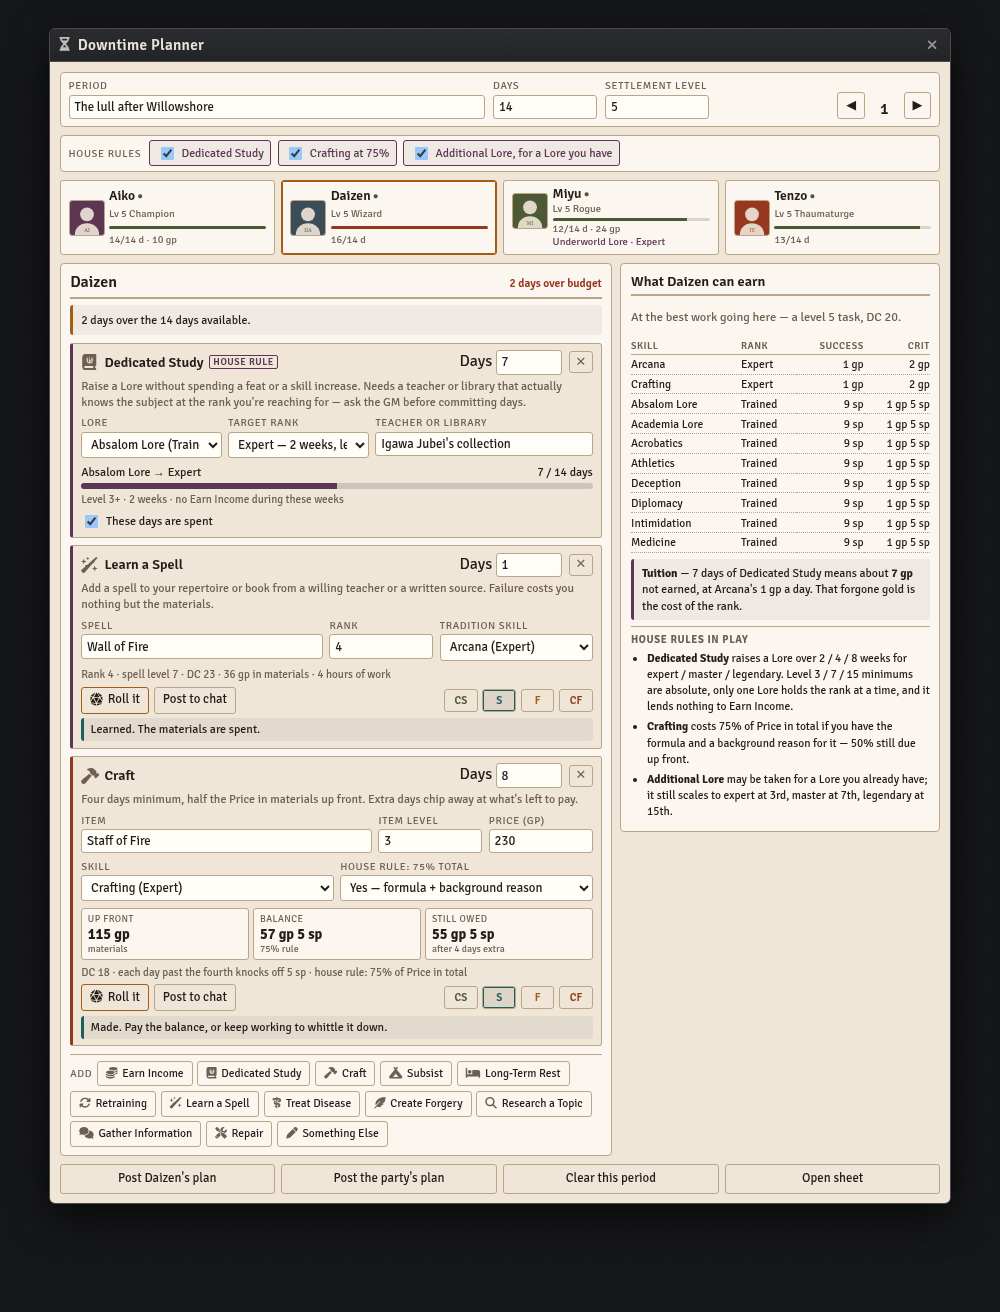
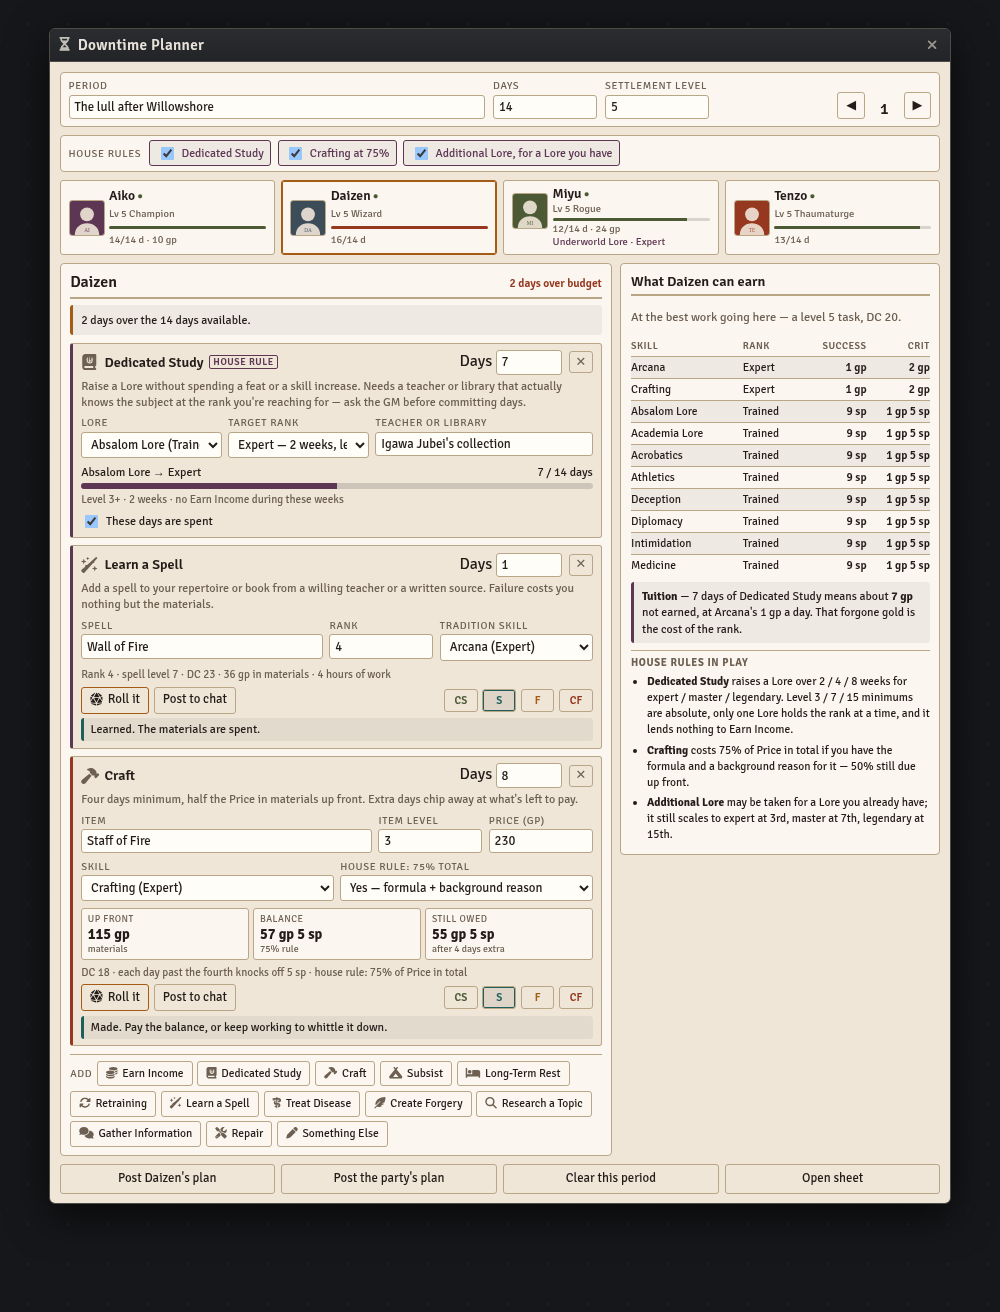
Downtime planner: read the party actor, and win the table styling
Two things reported from a live world.

The party strip was listing a summoner's eidolon and a "(Quick Send To Chat)"
utility actor alongside the four PCs. Ownership alone doesn't make something a
party member — companions and utility actors are player-owned too — and the
directory scan ran on top of a perfectly good party actor. The party actor is
now the whole answer wherever a world has one, with the assigned-character and
directory fallbacks reserved for worlds that have none. Eidolons and animal
companions are filtered on both paths, by actor type and by class name, since
PF2e models an eidolon as a character-type actor.

The earnings table was reading as a muddy low-contrast band. The PF2e system
styles tables inside application windows — a tinted thead and its own row
striping, chosen for a dark theme — and the panel had no backgrounds of its
own to stop it. Every background and colour in that table is now set
explicitly and prefixed with the window id, which a bare class selector loses
to, with its own striping, tabular figures, and full-width row rules.

The preview stub grows two player-owned actors outside the party so the first
mistake shows up in the harness rather than in someone's game.

Changed region(s): [[0.62, 0.25, 0.93, 0.6562]]

diff --git a/macros/pf2e-downtime/downtime-planner.js b/macros/pf2e-downtime/downtime-planner.js
@@ -445,20 +445,34 @@ function pcInfo(actor) {
   };
 }
 
-/* Prefers the PF2e party actor, then assigned player characters, then any
-   player-owned character in the directory. */
+/* Companions and utility actors are player-owned too, so ownership alone isn't
+   enough to call something a party member. An eidolon is a character-type actor
+   in PF2e, which is why the class is checked as well as the type. */
+const NON_PC_TYPES = new Set(["familiar", "eidolon", "npc", "hazard", "loot", "vehicle", "party", "army"]);
+function isPlayerCharacter(a) {
+  if (!a?.id) return false;
+  if (NON_PC_TYPES.has(a.type)) return false;
+  if (a.type !== "character" && a.type !== "PC") return false;
+  if (/eidolon|animal companion/i.test(a.system?.details?.class?.name ?? "")) return false;
+  return true;
+}
+
+/* The party actor is the answer wherever a world has one — it is the list the
+   table already curates, and scanning the directory on top of it drags in
+   eidolons, companions, and whatever utility actors happen to be player-owned.
+   The fallbacks below only run in a world with no party actor at all. */
 function detectPCs() {
-  const seen = new Map();
-  const add = (a) => { if (a?.id && !seen.has(a.id)) seen.set(a.id, pcInfo(a)); };
-
   const party = game.actors.party ?? game.actors.find(a => a.type === "party");
-  for (const m of party?.members ?? []) add(m);
+  const members = [...(party?.members ?? [])].filter(isPlayerCharacter);
+  if (members.length) return members.slice(0, MAX_PCS).map(pcInfo);
 
-  if (seen.size < MAX_PCS) for (const u of game.users) { if (!u.isGM) add(u.character); }
+  const seen = new Map();
+  const add = (a) => { if (isPlayerCharacter(a) && !seen.has(a.id)) seen.set(a.id, pcInfo(a)); };
+  for (const u of game.users) if (!u.isGM) add(u.character);
   if (seen.size < MAX_PCS) {
     for (const a of game.actors) {
       if (seen.size >= MAX_PCS) break;
-      if (a.hasPlayerOwner && (a.type === "character" || a.type === "PC")) add(a);
+      if (a.hasPlayerOwner) add(a);
     }
   }
   return [...seen.values()].slice(0, MAX_PCS);
@@ -1529,13 +1543,29 @@ class DowntimeApp extends BaseApp {
 
       .dtp .ref h3 { font-size:.9rem; font-weight:600; border-bottom:2px solid var(--line);
                      padding-bottom:.25rem; margin-bottom:.3rem; }
-      .dtp .reftab { width:100%; border-collapse:collapse; font-size:.72rem; margin:.3rem 0; }
-      .dtp .reftab th { text-align:left; font-size:.62rem; text-transform:uppercase; letter-spacing:.05em;
-                        color:var(--muted); font-weight:600; border-bottom:1px solid var(--line); padding:.15rem 0; }
-      .dtp .reftab td { padding:.15rem 0; border-bottom:1px dotted var(--line); }
-      .dtp .reftab .r { text-align:right; white-space:nowrap; }
-      .dtp .reftab tr.capped td { color:var(--plum); }
-      .dtp .reftab small { color:var(--muted); }
+      /* Foundry styles tables inside application windows — a tinted thead and
+         striped rows, picked for its own dark theme. Left alone it paints a
+         muddy band under this panel, so every background and colour here is
+         set explicitly and the striping is our own. */
+      /* Prefixed with the window id, not just .dtp: the PF2e system styles
+         tables inside application windows fairly aggressively, and a bare
+         class selector loses to it. */
+      #pf2e-downtime-planner .reftab { width:100%; border-collapse:collapse; font-size:.72rem;
+                     margin:.3rem 0; background:transparent; color:var(--ink); border:none; }
+      #pf2e-downtime-planner .reftab thead,
+      #pf2e-downtime-planner .reftab tbody,
+      #pf2e-downtime-planner .reftab tr { background:transparent; border:none; }
+      #pf2e-downtime-planner .reftab th { text-align:left; font-size:.62rem; text-transform:uppercase;
+                        letter-spacing:.05em; color:var(--muted); font-weight:600; background:transparent;
+                        border:none; border-bottom:1px solid var(--line); padding:.2rem .3rem .2rem 0; }
+      #pf2e-downtime-planner .reftab td { padding:.22rem .3rem .22rem 0; background:transparent;
+                        color:var(--ink); border:none; border-bottom:1px solid var(--line); }
+      #pf2e-downtime-planner .reftab tbody tr:nth-child(odd) td { background:var(--stripe); }
+      #pf2e-downtime-planner .reftab tbody tr:last-child td { border-bottom:none; }
+      #pf2e-downtime-planner .reftab .r { text-align:right; white-space:nowrap;
+                        font-variant-numeric:tabular-nums; font-weight:600; padding-right:0; }
+      #pf2e-downtime-planner .reftab tr.capped td { color:var(--plum); }
+      #pf2e-downtime-planner .reftab small { color:var(--muted); font-weight:400; }
       .dtp .tuition { font-size:.74rem; background:var(--stripe); border-left:3px solid var(--plum);
                       border-radius:3px; padding:.35rem .5rem; margin:.4rem 0; line-height:1.4; }
       .dtp .houserules { border-top:1px solid var(--line); padding-top:.35rem; margin-top:.4rem; }

diff --git a/tools/preview/foundry-stub.js b/tools/preview/foundry-stub.js
@@ -137,13 +137,27 @@ class StubActor {
 
 const ACTORS = SAMPLE_PCS.map((s, i) => new StubActor(s, i));
 
+/* Player-owned, but not party members: a summoner's eidolon and the sort of
+   utility actor that accumulates in a long-running world. A macro that scans
+   the directory for player-owned characters picks these up and shouldn't —
+   they exist here so that mistake shows in the preview. */
+const TAG_ALONGS = [
+  { name: "Brutal Beast", cls: "Eidolon", ancestry: "", level: 5, bg: "#4a3b52", fg: "#efe6d8" },
+  { name: "(Quick Send To Chat)", cls: "", ancestry: "", level: 1, bg: "#3a3a3a", fg: "#efe6d8" }
+].map((s, i) => new StubActor(s, ACTORS.length + i));
+
+const ALL_ACTORS = [...ACTORS, ...TAG_ALONGS];
+
+/* Only the four real PCs, exactly as a curated party actor would hold them. */
 const partyActor = { id: "party", name: "Party", type: "party", members: ACTORS };
 
 const actorCollection = {
   party: partyActor,
-  get: (id) => ACTORS.find(a => a.id === id) ?? null,
-  find: (fn) => ACTORS.find(fn) ?? null,
-  [Symbol.iterator]: () => ACTORS[Symbol.iterator]()
+  /* The directory holds the tag-alongs too — the party actor is what narrows
+     it back down to the four. */
+  get: (id) => ALL_ACTORS.find(a => a.id === id) ?? null,
+  find: (fn) => ALL_ACTORS.find(fn) ?? null,
+  [Symbol.iterator]: () => ALL_ACTORS[Symbol.iterator]()
 };
 
 /* ---------------------------------------------------------------- journals

diff --git a/macros/pf2e-downtime/README.md b/macros/pf2e-downtime/README.md
@@ -118,10 +118,15 @@ Shares the shape of the other consoles in this repo:
   incompatible signatures.
 - **Styling** — every selector is namespaced under `.dtp`, and the scroll clamp sits on
   `#pf2e-downtime-planner .window-content`. Unscoped generic selectors like `.row` or `.panel`
-  will bleed into PF2e character sheets and chat messages.
-- **Party detection** — prefers `game.actors.party`, falls back to assigned player characters,
-  then to any player-owned character. Actor data is re-read on every open, so names, art, levels,
-  and proficiency ranks never go stale.
+  will bleed into PF2e character sheets and chat messages. The traffic goes both ways: the PF2e
+  system styles `table` inside application windows, so the earnings table sets its own
+  backgrounds and colours prefixed with the window id, which a bare class selector loses to.
+- **Party detection** — the party actor, and nothing else, wherever a world has one. Eidolons,
+  animal companions, and utility actors are player-owned too, so ownership alone doesn't make
+  something a party member, and scanning the directory on top of a curated party actor drags
+  them all in. The fallbacks — assigned player characters, then any player-owned character —
+  only run in a world with no party actor. Actor data is re-read on every open, so names, art,
+  levels, and proficiency ranks never go stale.
 - **Live sync** — an `updateSetting` hook refreshes open windows for every user. It's
   re-registered rather than guarded on re-run, so running the macro again doesn't leave the hook
   driving a closed window.

diff --git a/CHANGELOG.md b/CHANGELOG.md
@@ -11,6 +11,16 @@
   success paying at one task level higher, as the book has it
 - Downtime Planner: rolls the character's own statistic and records the degree where the
   system offers one, falling back to a rollable `@Check` in chat where it doesn't
+- Downtime Planner: the party is **the party actor**, not a directory scan. Eidolons,
+  companions, and the utility actors that collect in a long-running world are all
+  player-owned, so ownership alone doesn't make something a party member; the directory
+  fallbacks only run in a world with no party actor at all
+- Downtime Planner: the earnings table sets its own backgrounds and colours under the window
+  id, because the PF2e system styles tables inside application windows and its tinted header
+  and row striping otherwise show through as a muddy, low-contrast band
+- Preview stub: two player-owned actors outside the party — a summoner's eidolon and a
+  utility macro actor — so a macro that scans the directory instead of reading the party
+  shows that mistake in the preview
 - Downtime Planner: written to be handed to the players. Players edit only the characters they
   own and the calendar stays the GM's, enforced on the GM's side rather than trusted from the
   sender. Since players can't write world settings, their edits relay over `game.socket` to
